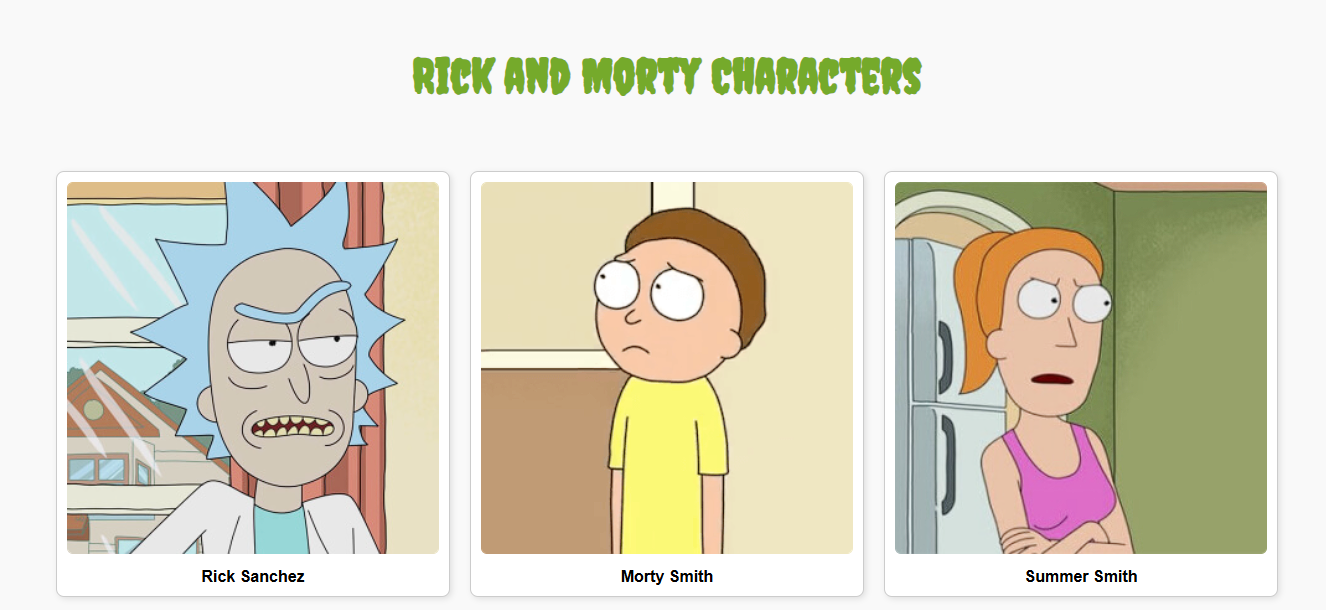
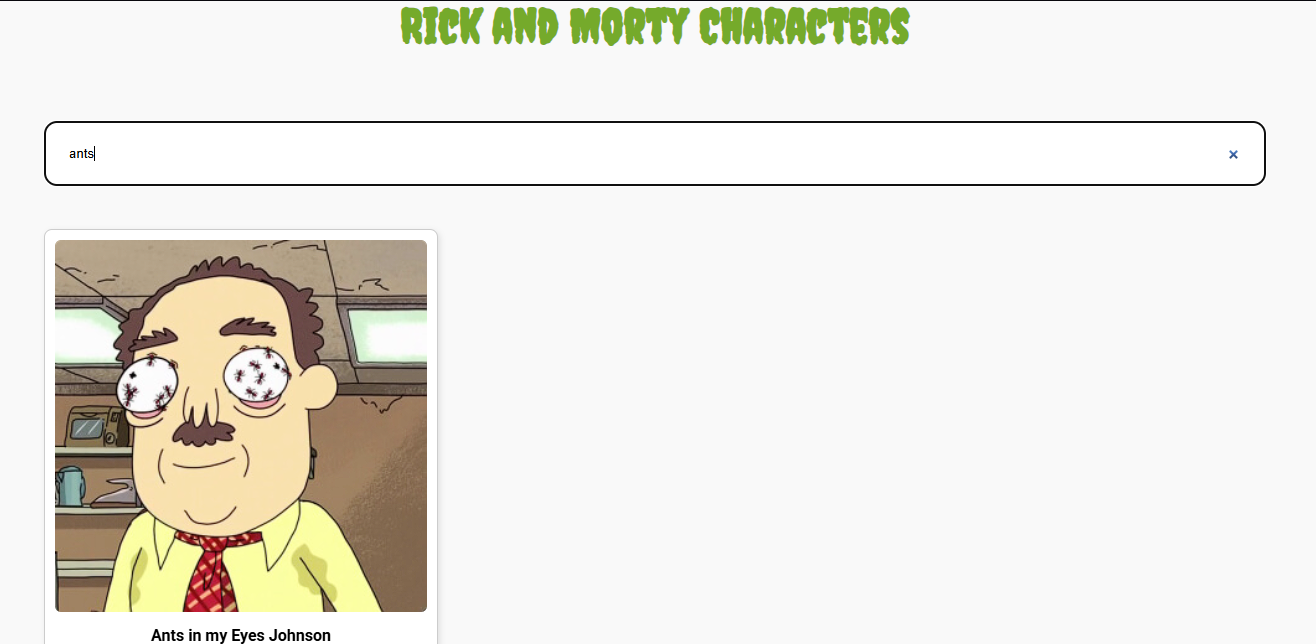
feat: add search bar to filter characters based on input

diff --git a/script.js b/script.js
@@ -1,34 +1,66 @@
-async function getCharacters() {
-    try {
-      const res = await fetch('https://rickandmortyapi.com/api/character');
-      const data = await res.json();
-      const characters = data.results
+async function fetchData() {
+  try {
+    const res = await fetch('https://rickandmortyapi.com/api/character')
+    const data = await res.json()
+    return data.results
+  } catch (error){
+    console.error('Gagal fetch data', error)
+    return []
+  } 
+}
 
-      const container = document.getElementById('character-container')
+function defaultDisplay(data) {
+  const container = document.getElementById('character-container')
+  container.replaceChildren()
+   // container.innerHTML = '' // bisa pakai innerHTML untuk mereset isi container setelah fungsi search dipanggil
 
-      characters.forEach(character => {
+  data.forEach(character => {
+    const card = document.createElement('div')
+    card.className = 'character-card'
 
-        const card = document.createElement('div')
-        card.className = 'character-card'
-        container.appendChild(card);
+    const name = document.createElement('div')
+    name.className = 'character-name'
+    name.textContent = character.name
 
-        const name = document.createElement('div')
-        name.className = 'character-name'
-        name.textContent = character.name
-        
-        const image = document.createElement('img')
-        image.src = character.image
-        image.alt = character.name
+    const image = document.createElement('img')
+    image.src = character.image
+    image.alt = character.name
 
-        card.appendChild(image)
-        card.appendChild(name)
-       
-      })
-     
-    } catch (error) {
-      console.error('Gagal mengambil data:', error)
-    }
-  }
-  
-getCharacters()
-  
+    card.appendChild(image)
+    card.append(name)
+    container.appendChild(card)
+  });
+}
+
+
+let allCharacters = []
+
+function searchCharacters() {
+  const container = document.getElementById('character-container')
+
+  const searchContainer = document.createElement('div')
+  searchContainer.className = 'searchContainer'
+
+  const searchInput = document.createElement ('input')
+  searchInput.className = 'searchInput'
+  searchInput.type = 'search'
+  searchInput.placeholder = 'Search characters...'
+
+  searchContainer.appendChild(searchInput)
+  container.parentNode.insertBefore(searchContainer, container)
+
+  searchInput.addEventListener('input', function () {
+    const keyword = searchInput.value.toLowerCase()
+    const filtered = allCharacters.filter(character => character.name.toLowerCase().includes(keyword)
+  )
+  defaultDisplay(filtered)
+  })
+}
+
+async function startDisplay() {
+  allCharacters = await fetchData()
+  defaultDisplay(allCharacters)
+  searchCharacters()
+}
+
+startDisplay()

diff --git a/style.css b/style.css
@@ -2,9 +2,9 @@
 
 
 body {
-    font-family: Arial, sans-serif;
+    font-family: 'Roboto', sans-serif;
     padding: 20px;
-    background: #f9f9f9;
+    background-color: #f9f9f9;
     text-align: center;
   }
 
@@ -46,9 +46,35 @@ body {
   }
 
 
+.searchContainer {
+    height: 36px;
+    /* width: 240px; */
+    padding: 36px;
+
+}
+
+.searchInput {
+  width: 100%;
+  padding: 24px;
+  border-radius: 12px;
+  /* background: #f9f9f9; */
+  border: 0.5px solid rgb(209, 198, 198);
+
+}
+
+
   @media (max-width: 720px){
     #character-container {
         display: flex;
         flex-direction: column;
+        padding-top: 0px;
     }
+
+    .searchContainer {
+      padding-top: 0
+    }
+
+    .searchInput {
+      padding: 12px;
+    } 
   }

diff --git a/README.md b/README.md
@@ -5,6 +5,7 @@ This project showcases a list of characters from the Rick and Morty universe usi
 Each character is displayed with an image and name in a responsive grid layout, showing three characters per row.
 
 ## Preview
+![Preview](src/image1.png)
 ![Preview](src/image.png)
 
 
